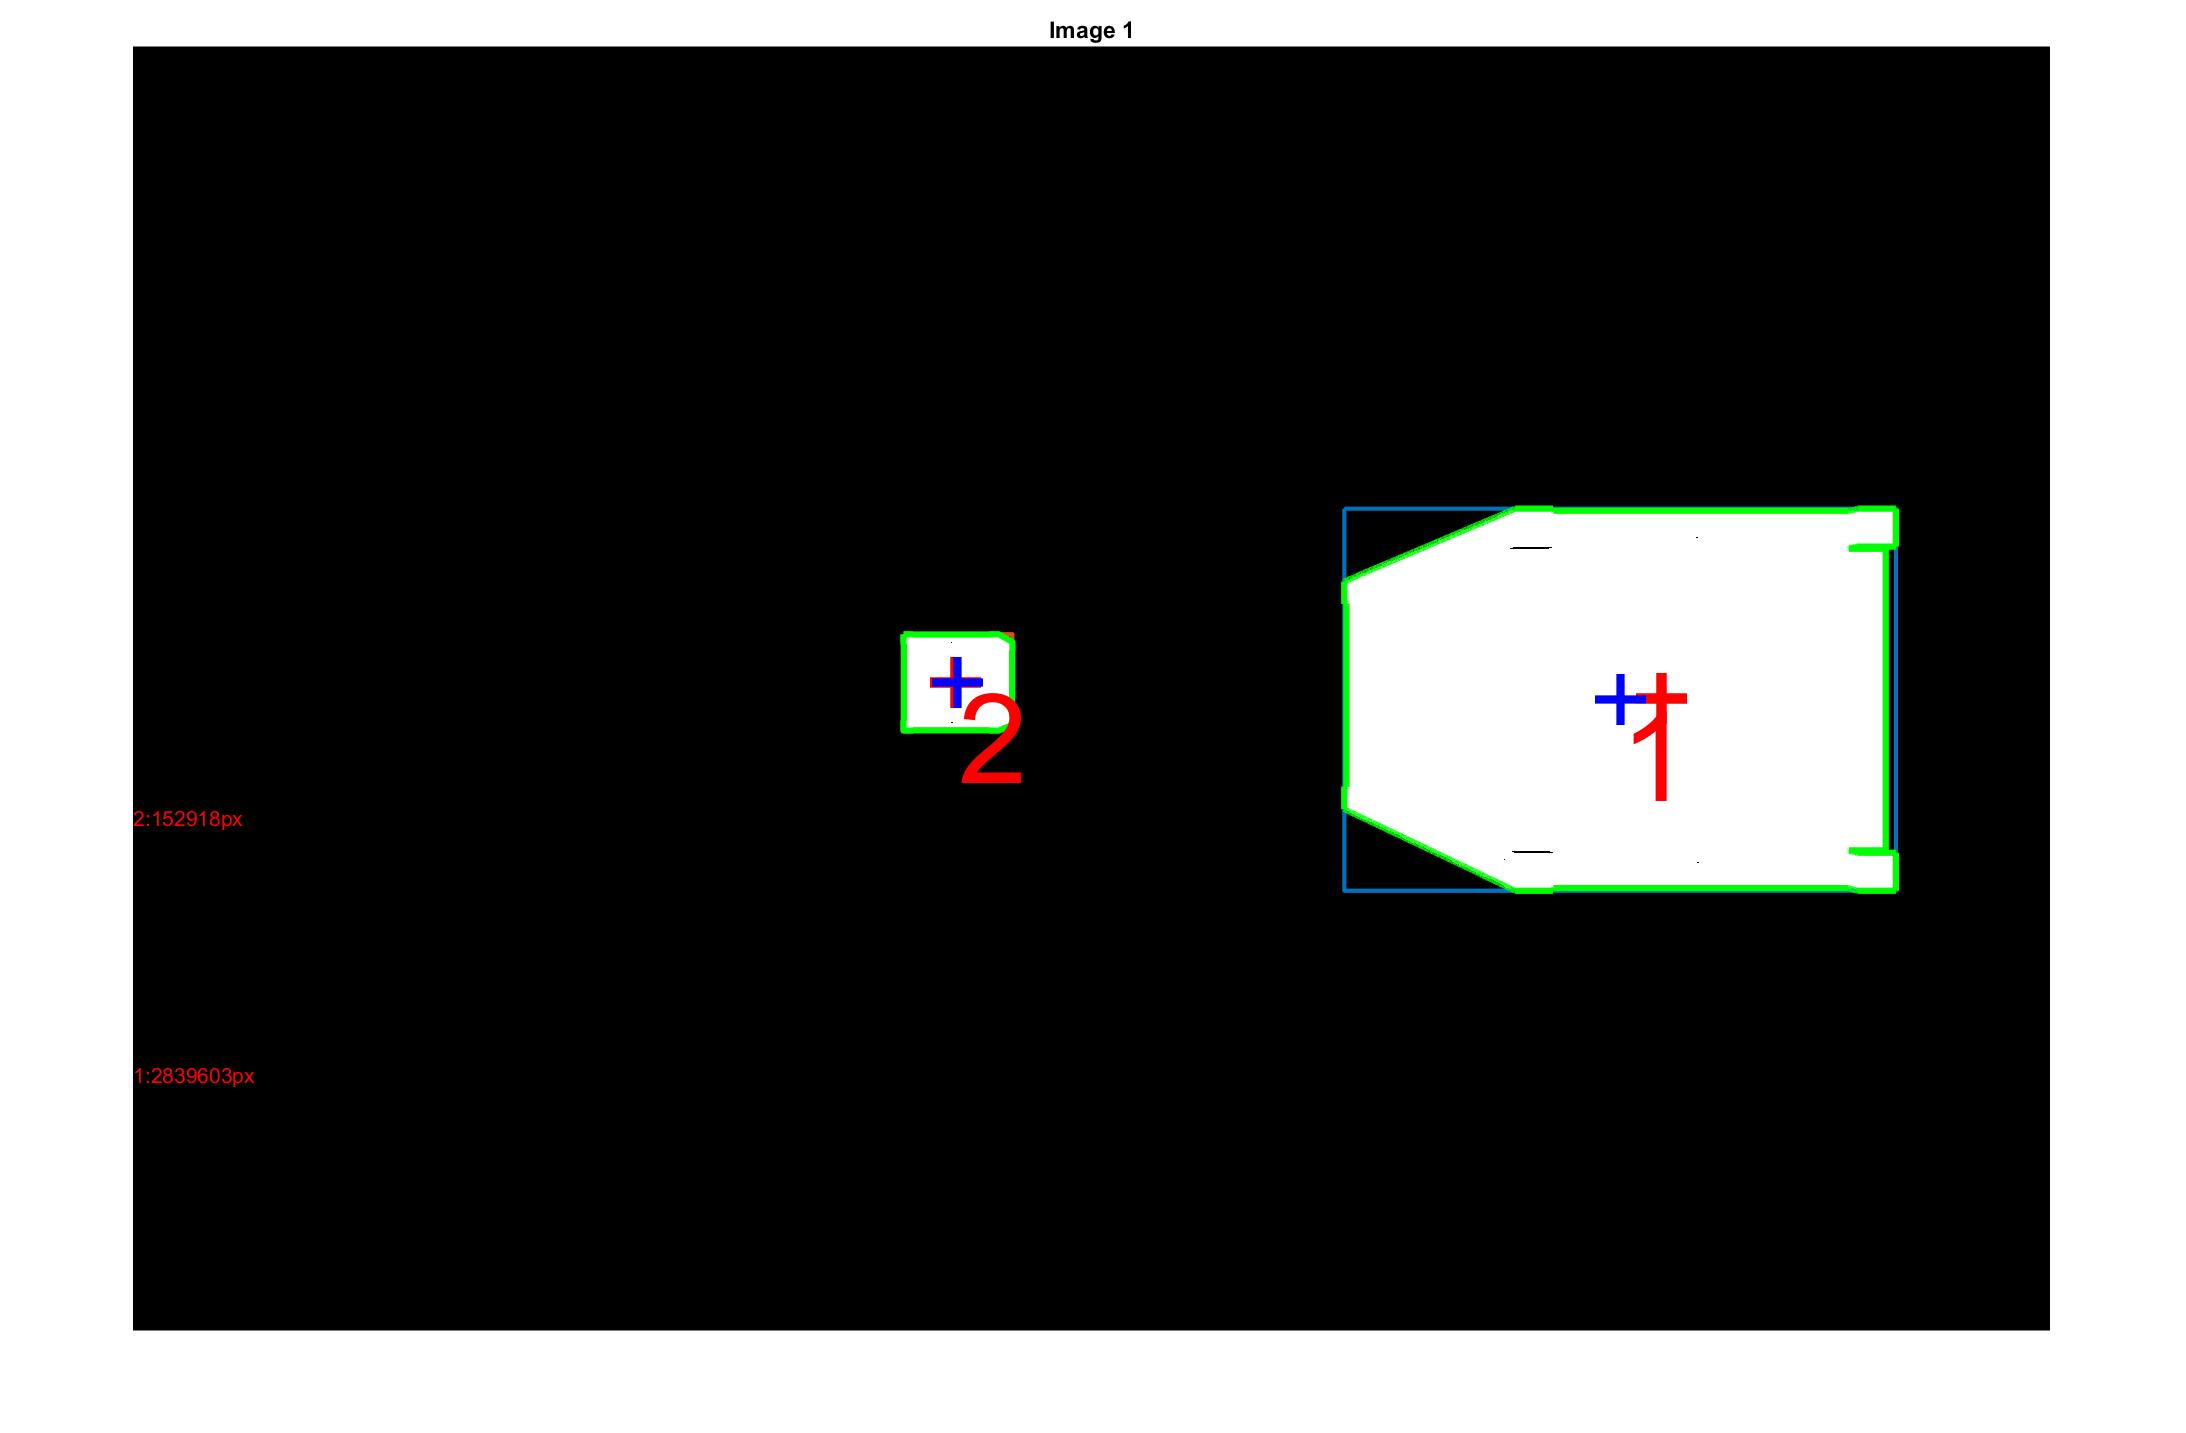
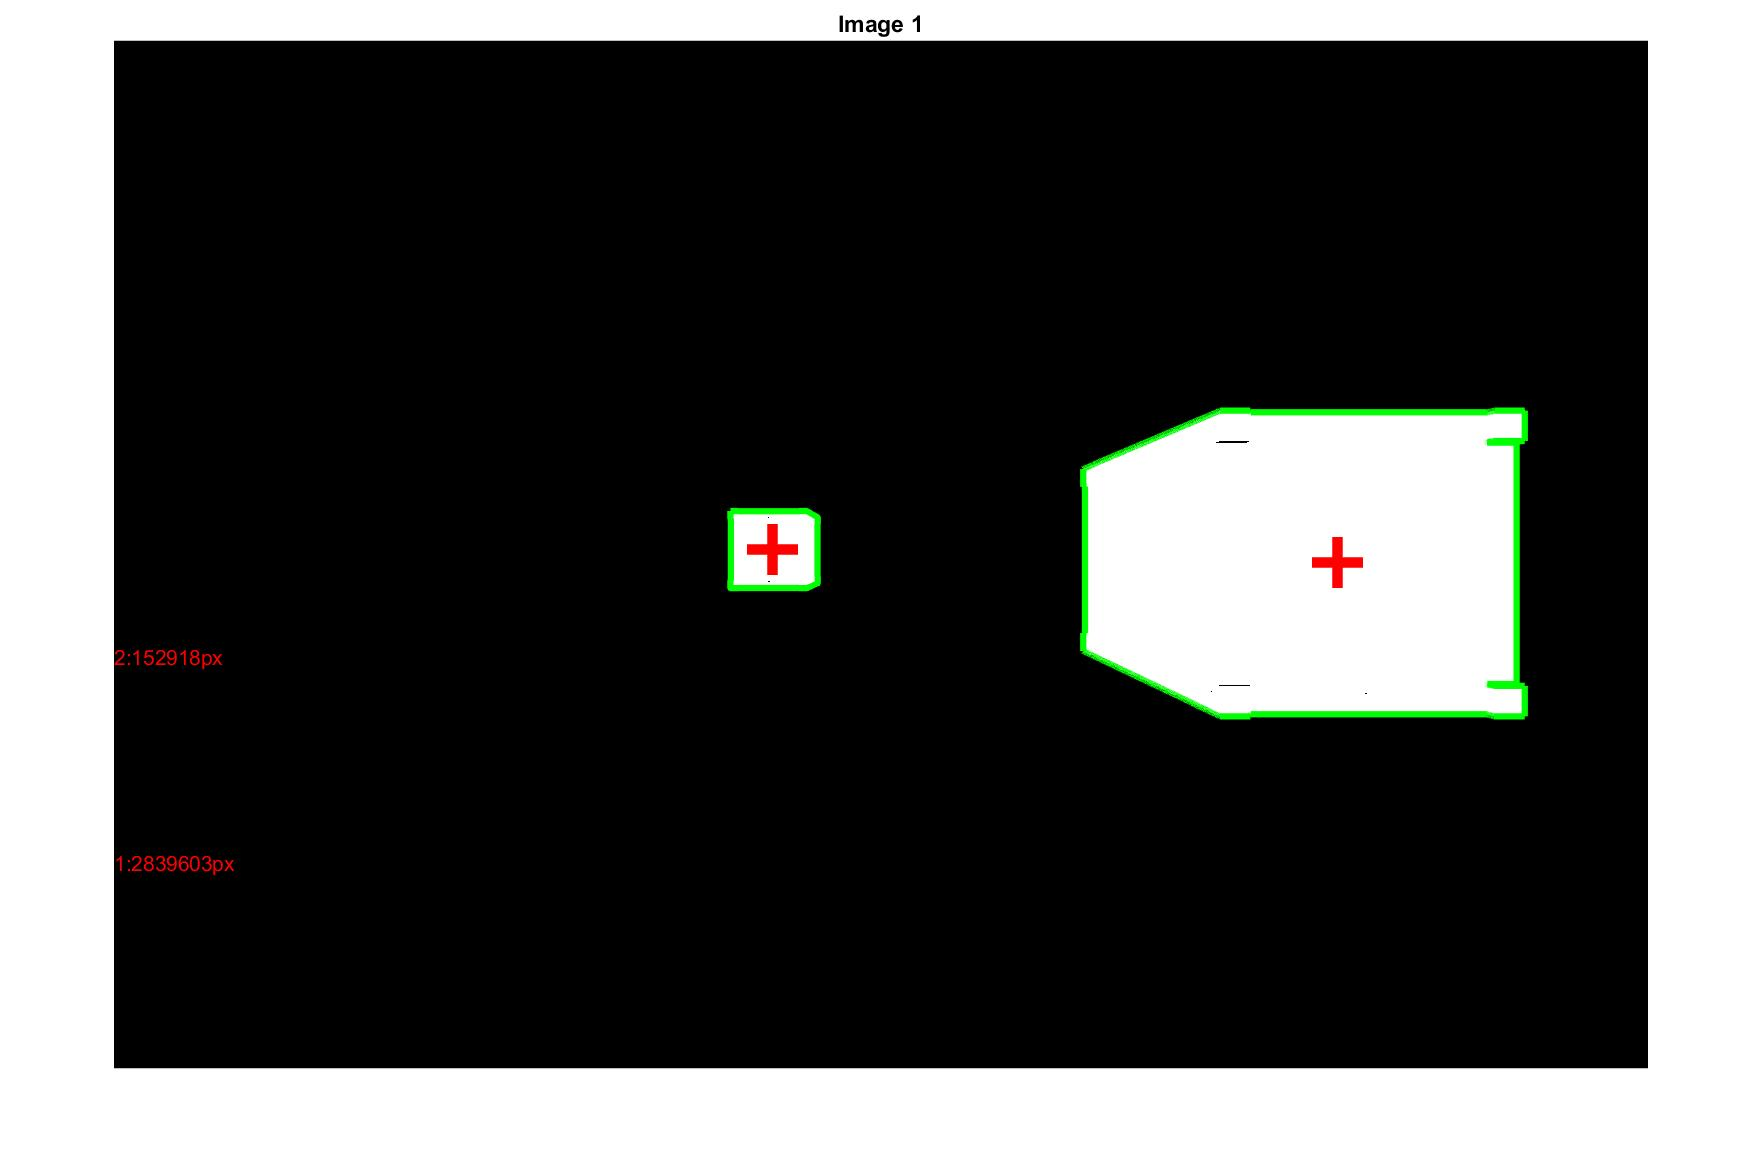
yes

diff --git a/3-Optical/test.m b/3-Optical/test.m
@@ -1,0 +1,124 @@
+% Demo to find certain shapes in an image based on their shape.
+clc;    % Clear the command window.
+close all;  % Close all figures (except those of imtool.)
+imtool close all;  % Close all imtool figures.
+clear;  % Erase all existing variables.
+workspace;  % Make sure the workspace panel is showing.
+fontSize = 20;
+
+fullFileName = 'Images/occ.png';
+
+% Read in image into an array.
+rgbImage = imread(fullFileName); 
+[rows, columns, numberOfColorBands] = size(rgbImage); 
+% Display it.
+subplot(2, 2, 1);
+imshow(rgbImage, []);
+title('Input Image', 'FontSize', fontSize);
+% Enlarge figure to full screen.
+set(gcf, 'units','normalized','outerposition',[0 0 1 1]);
+% Give a name to the title bar.
+set(gcf,'name','Shape Recognition Demo','numbertitle','off') 
+
+% If it's monochrome (indexed), convert it to color. 
+if numberOfColorBands > 1
+	grayImage = rgbImage(:,:,2);
+else
+	% It's already a gray scale image.
+	grayImage = rgbImage;
+end
+
+% Make a triangle on it.
+triangleXCoordinates = [360 420 480];
+triangleYCoordinates = [350 252 350];
+traiangleBinaryImage = poly2mask(triangleXCoordinates, triangleYCoordinates, rows, columns);
+% Burn it into the gray scale image.
+grayImage(traiangleBinaryImage) = 255;
+
+% Display it.
+subplot(2, 2, 2);
+imshow(grayImage, []);
+title('Grayscale Image', 'FontSize', fontSize);
+
+% Binarize the image.
+binaryImage = grayImage > 120;
+% Display it.
+subplot(2, 2, 3);
+imshow(binaryImage, []);
+title('Initial (Noisy) Binary Image', 'FontSize', fontSize);
+
+% Remove small objects.
+binaryImage = bwareaopen(binaryImage, 300);
+% Display it.
+subplot(2, 2, 4);
+imshow(binaryImage, []);
+title('Cleaned Binary Image', 'FontSize', fontSize);
+
+[labeledImage numberOfObjects] = bwlabel(binaryImage);
+blobMeasurements = regionprops(labeledImage,...
+	'Perimeter', 'Area', 'FilledArea', 'Solidity', 'Centroid'); 
+
+% Get the outermost boundaries of the objects, just for fun.
+filledImage = imfill(binaryImage, 'holes');
+boundaries = bwboundaries(filledImage);
+
+% Collect some of the measurements into individual arrays.
+perimeters = [blobMeasurements.Perimeter];
+areas = [blobMeasurements.Area];
+filledAreas = [blobMeasurements.FilledArea];
+solidities = [blobMeasurements.Solidity];
+% Calculate circularities:
+circularities = perimeters .^2 ./ (4 * pi * filledAreas);
+% Print to command window.
+fprintf('#, Perimeter,        Area, Filled Area, Solidity, Circularity\n');
+for blobNumber = 1 : numberOfObjects
+	fprintf('%d, %9.3f, %11.3f, %11.3f, %8.3f, %11.3f\n', ...
+		blobNumber, perimeters(blobNumber), areas(blobNumber), ...
+		filledAreas(blobNumber), solidities(blobNumber), circularities(blobNumber));
+end
+
+% Say what they are.
+% IMPORTANT NOTE: depending on the aspect ratio of the rectangel or triangle
+for blobNumber = 1 : numberOfObjects
+	% Outline the object so the user can see it.
+	thisBoundary = boundaries{blobNumber};
+	subplot(2, 2, 2); % Switch to upper right image.
+	hold on;
+	% Display prior boundaries in blue
+	for k = 1 : blobNumber-1
+		thisBoundary = boundaries{k};
+		plot(thisBoundary(:,2), thisBoundary(:,1), 'b', 'LineWidth', 3);
+	end
+	% Display this bounary in red.
+	thisBoundary = boundaries{blobNumber};
+	plot(thisBoundary(:,2), thisBoundary(:,1), 'r', 'LineWidth', 3);
+	subplot(2, 2, 4); % Switch to lower right image.
+	
+	% Determine the shape.
+	if circularities(blobNumber) < 1.2
+		message = sprintf('The circularity of object #%d is %.3f,\nso the object is a circle',...
+			blobNumber, circularities(blobNumber));
+		shape = 'circle';
+	elseif circularities(blobNumber) < 1.6
+		message = sprintf('The circularity of object #%d is %.3f,\nso the object is a square',...
+			blobNumber, circularities(blobNumber));
+		shape = 'square';
+	elseif circularities(blobNumber) > 1.6 && circularities(blobNumber) < 1.8
+		message = sprintf('The circularity of object #%d is %.3f,\nso the object is an isocoles triangle',...
+			blobNumber, circularities(blobNumber));
+		shape = 'triangle';
+	else
+		message = sprintf('The circularity of object #%d is %.3f,\nso the object is something else.',...
+			blobNumber, circularities(blobNumber));
+		shape = 'something else';
+	end
+	% Display in overlay above the object
+	overlayMessage = sprintf('Object #%d = %s\ncirc = %.2f, s = %.2f', ...
+		blobNumber, shape, circularities(blobNumber), solidities(blobNumber));
+	text(blobMeasurements(blobNumber).Centroid(1), blobMeasurements(blobNumber).Centroid(2), ...
+		overlayMessage, 'Color', 'r');
+	button = questdlg(message, 'Continue', 'Continue', 'Cancel', 'Continue');
+	if strcmp(button, 'Cancel')
+		break;
+	end
+end

diff --git a/3-Optical/FindCentroid.m b/3-Optical/FindCentroid.m
@@ -14,9 +14,10 @@ for i=1:length(imageFiles)
     %}
     I_gray = rgb2gray(I);
     
-    binaryTolerance = 0.3;
+    binaryTolerance = 0.1;
     I_binarized = imbinarize(I_gray,binaryTolerance);
     imshow(I_binarized)
+    hold on
     [I_boundaries,~,~,~] = bwboundaries(I_binarized);
     
     %%%% Find the largest boundaries (the cubesats)
@@ -32,16 +33,16 @@ for i=1:length(imageFiles)
     
     %edgeImage = createEdgeImage(objects{1},I_gray);
     
-    boundingRectangles = findBoundingRectangles(objects,I_binarized);
+    %boundingRectangles = findBoundingRectangles(objects,I_binarized);
 
     for j=1:length(objects)
         objectBoundary = objects{j};
-        boundingRectangle = boundingRectangles{j};
+        %boundingRectangle = boundingRectangles{j};
         %%% Plotting grayscale image overlaid with cube outline
         %% and geometric centroid overlaid
         if plotGrayscale == 1
             plotEdgeCentroid(objectBoundary,j)
-            plotBoundingCentroid(boundingRectangle,j)
+            %plotBoundingCentroid(boundingRectangle,j)
         end
     end
     [object_pixels,image_cropped] = FindCubeSatPixels(objects,I_binarized);

diff --git a/3-Optical/plotEdgeCentroid.m b/3-Optical/plotEdgeCentroid.m
@@ -2,8 +2,8 @@ function plotEdgeCentroid(b,j)
     sz = 600;
     scatter(mean(b(:,2)),mean(b(:,1)),sz,'r','+','LineWidth',5);
     str = num2str(j);
-    %text(mean(b(:,2)),mean(b(:,1))+200,str,'Color','red',...
-    %    'FontSize',60);
+    text(mean(b(:,2)),mean(b(:,1))+200,str,'Color','red',...
+        'FontSize',60);
     plot(b(:,2),b(:,1),'g','LineWidth',3);
 
 end

diff --git a/3-Optical/EdgeOutlineDetection.m b/3-Optical/EdgeOutlineDetection.m
@@ -16,7 +16,7 @@ plotBinarized = 0;
 
 %%% Search desired image folder for relevant images
 imageDirectory = 'Images/';
-imageSet = '8396*';
+imageSet = 'multi*';
 if strcmp(imageSet,'8*')
     imageType = 'RealImages';
 elseif strcmp(imageSet,'multi*')
